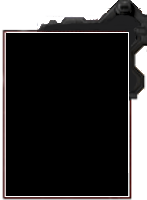
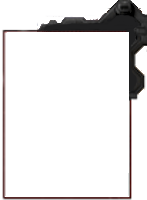
Added a game panel

diff --git a/js/panel.js b/js/panel.js
@@ -1,0 +1,55 @@
+var panel = { // clase para el personaje
+	casx : 0,
+	casy : 0,
+	img : null,
+	items : [],
+	imgchapa : null,
+	nombre : "Player",
+	
+	creapanel : function(sprite, reverse) {
+
+		this.img = sprite;
+		this.casx = Machango.casx - parseInt( canvas.width / 2 );
+		this.casy = Machango.casy - parseInt( canvas.height / 2 );
+		this.imgchapa = chapa;
+		this.vida = ctx.createImageData(10, 90);
+	},
+
+	update : function() {
+		this.casx = Machango.casx - parseInt( canvas.width / 2 );
+		this.casy = Machango.casy - parseInt( canvas.height / 2 );
+
+		for(i=0;i<this.vida.length;i+=4){
+				this.barravida.data[i + 0] = 250;
+				this.barravida.data[i + 1] = 0;
+				this.barravida.data[i + 2] = 0;
+				this.barravida.data[i + 3] = 250;
+		}
+
+
+	},
+
+	render : function() {
+					ctx.drawImage(chapa , 0 , 0 ,
+											chapa.width  , chapa.height ,
+											this.casx +19 , this.casy + canvas.height - chapa.height -120,
+											chapa.width , chapa.height);
+					ctx.save();
+					ctx.scale(-1.0, 1.0);
+					
+					ctx.putImageData(this.vida,this.casx +19 , this.casy + canvas.height - chapa.height -100);
+
+
+					ctx.drawImage(this.img , 0 , 0 ,
+											this.img.width  , this.img.height ,
+											-this.casx - this.img.width, this.casy + canvas.height - this.img.height,
+											this.img.width , this.img.height);
+					ctx.restore();
+					ctx.fillStyle = "rgb(250, 250, 250)";
+					ctx.font = "14px Helvetica";
+					ctx.textAlign = "left";
+					ctx.textBaseline = "top";
+					ctx.fillText(this.nombre, this.casx +40 , this.casy + canvas.height - chapa.height -103);
+			
+	}
+}

diff --git a/js/drawing.js b/js/drawing.js
@@ -336,6 +336,12 @@ function update() // actualiza las variables antes del render
 
 		}
 	}
+
+  panel.update();
+
+
+
+
 	// salida
 	if (Dungeon.getCell(parseInt((Machango.casx + 16) / ancho),
 			parseInt((Machango.casy + 16) / ancho)) == Dungeon.tileExit) {
@@ -668,6 +674,9 @@ function render() {
 			+ canvas.height / 2 - 230, 243, 178);
 	Dungeon.dibujamapa(10 + Machango.casx - canvas.width / 2, 10
 			+ Machango.casy - canvas.height / 2);
+  
+  //dibuja el panel de vida
+  panel.render();
 
 	// dibuja al personaje
 	Machango.render();

diff --git a/js/game.js b/js/game.js
@@ -62,7 +62,7 @@ var init = function() {
 	mapx = parseInt((ancho * Dungeon.xsize) / 2) - parseInt(canvas.width / 2);
 	mapy = parseInt((ancho * Dungeon.ysize) / 2) - parseInt(canvas.height / 2);
 	Machango.creamachango(hx, hy, marinez, 48);
-
+	panel.creapanel(map,true);
 	Dungeon.iniciamapa(64, 64);
 	Dungeon.setCell(Dungeon.exitx, Dungeon.exity, Dungeon.tileExit);
 	ctx.translate(0, 0);

diff --git a/js/map.js b/js/map.js
@@ -25,6 +25,14 @@ fuego.onload = function() {
 
 fuego.src = "images/fire.png";
 
+var chapaReady = false;
+var chapa = new Image();
+chapa.onload = function() {
+  chapaReady = true;
+};
+
+chapa.src = "images/chapa.png";
+
 var botiquinReady = false;
 var botiquin = new Image();
 botiquin.onload = function() {

diff --git a/index.html b/index.html
@@ -17,6 +17,7 @@
 
 	<body >
         <script src="js/map.js"></script>
+        <script src="js/panel.js"></script>
         <script src="js/drawing.js"></script>
         <script src="js/bala.js"></script>
         <script src="js/machango.js"></script>

diff --git a/js/Alien.js b/js/Alien.js
@@ -152,7 +152,8 @@ function Alien(x, y, r, sp, vid, anc) {
 				this.corriendo++;
 			} else {
 				corriendo = 0;
-				Machango.vida--;
+				Machango.vida--;            //resta vida al machango
+
 
 			}
 
